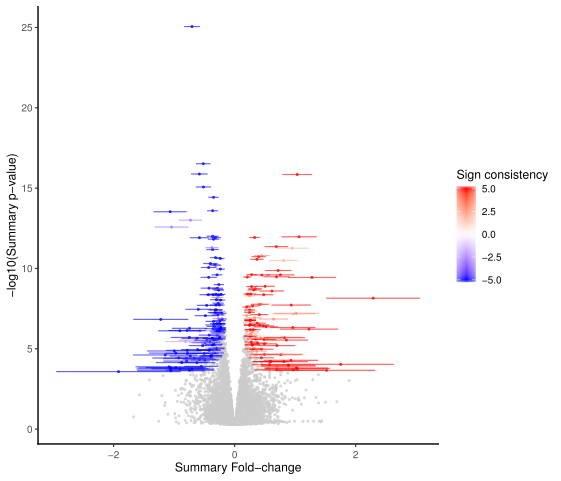
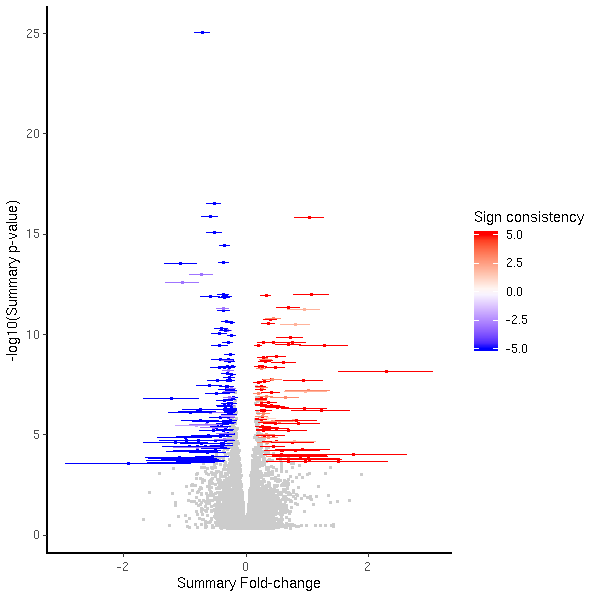
object MetaVolcano S4

diff --git a/README.md b/README.md
@@ -23,7 +23,10 @@ Load required libraries.
 library(MetaVolcanoR,
 	data.table,
 	dplyr,
+	rlang,
 	parallel,
+	ggplot2,
+	cowplot,
 	plotly,
 	metap,
 	metafor,
@@ -69,10 +72,14 @@ meta_degs_rem <- rem_mv(diffexp=diffexplist,
 			vcol=NULL, 
 			cvar=TRUE,
 			metathr=0.01,
-			jobname=jobname,
-			outputfolder=outputfolder, 
+			jobname="MetaVolcano",
+			outputfolder=".", 
 			draw='HTML',
-			ncores=ncores)
+			ncores=5)
+
+head(meta_degs_rem@metaresult, 3)
+
+meta_degs_rem@MetaVolcano
 ```
 ![REM MetaVolcano](https://github.com/csbl-usp/MetaVolcanoR/blob/master/REM_MV.png)
 
@@ -93,7 +100,24 @@ draw_forest(remres=meta_degs_rem,
 	    draw="HTML")
 
 ```
-![Forest plot](https://github.com/csbl-usp/MetaVolcanoR/blob/master/forestplot.png)
+![Forest plot](https://github.com/csbl-usp/MetaVolcanoR/blob/master/MMP9_forestplot.png)
+
+
+```
+draw_forest(remres=meta_degs_rem,
+	    gene="COL6A6",
+	    genecol="Symbol", 
+	    foldchangecol="Log2FC",
+	    llcol="CI.L", 
+	    rlcol="CI.R",
+	    studynames=names(diffexplist),
+	    jobname=jobname,
+	    outputfolder=outputfolder,
+	    draw="HTML")
+
+```
+![Forest plot](https://github.com/csbl-usp/MetaVolcanoR/blob/master/COL6A6_forestplot.png)
+
 
 ### Vote-counting approach
 
@@ -109,18 +133,22 @@ meta_degs_vote <- votecount_mv(diffexp=diffexplist,
 			       pcriteria='pvalue',
 			       foldchangecol='Log2FC',
 			       genenamecol='Symbol',
-			       geneidcol='Symbol',
+			       geneidcol=NULL,
 			       pvalue=0.05,
 			       foldchange=0, 
 			       metathr=0.01,
 			       collaps=FALSE,
-			       jobname=jobname, 
-			       outputfolder=outputfolder,
+			       jobname="MetaVolcano", 
+			       outputfolder=".",
 			       draw='HTML',
-			       ncores=ncores)
+			       ncores=4)
+
+head(meta_degs_vote@metaresult, 3)
+
+meta_degs_vote@degfreq
 
 ```
-![DEG by study and cummulative inverse distribution](https://github.com/csbl-usp/MetaVolcanoR/blob/dev/votecounting_pre_MV.png)
+![DEG by study and cummulative inverse distribution](https://github.com/csbl-usp/MetaVolcanoR/blob/dev/deg_bt_study.png)
 
 MetaVolcano visualizes genes based on the number of studies where genes were
 identified as differentially expressed and the their fold change *sign 
@@ -128,6 +156,10 @@ consistency*. It means that a gene that was differentially expressed in five
 studies, from which three of them it was downregulated, will get a *sign 
 consistency* score of *2 + (-3) = -1*. Based on the user selection, MetaVolcano
 can highligths the top *metathr* percentage of consistently perturbed genes.
+
+```
+meta_degs_vote@MetaVolcano
+```
 
 ![Vote-counting MetaVolcano](https://github.com/csbl-usp/MetaVolcanoR/blob/master/votecounting_MV.png)
 
@@ -145,14 +177,18 @@ meta_degs_comb <- combining_mv(diffexp=diffexplist,
 			       pcriteria='pvalue', 
 			       foldchangecol='Log2FC',
 			       genenamecol='Symbol',
-			       geneidcol='Symbol',
+			       geneidcol=NULL,
 			       metafc='Mean',
 			       metathr=0.01, 
 			       collaps=TRUE,
-			       jobname=jobname,
-			       outputfolder=outputfolder,
+			       jobname="MetaVolcano",
+			       outputfolder=".",
 			       draw='HTML',
-			       ncores=ncores)
+			       ncores=4)
+
+head(meta_degs_comb@metaresult, 3)
+
+meta_degs_comb@MetaVolcano
 
 ```
 ![Combining MetaVolcano](https://github.com/csbl-usp/MetaVolcanoR/blob/master/combining_MV.png)
